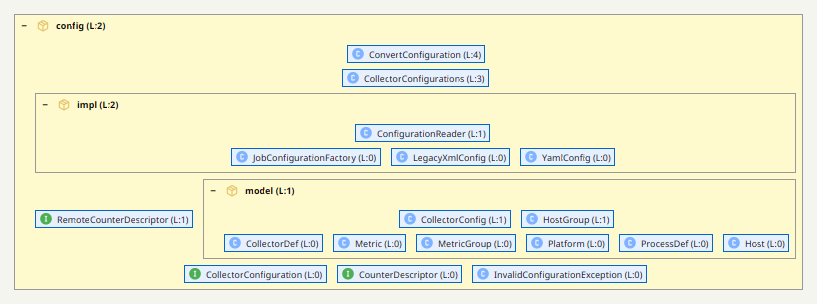
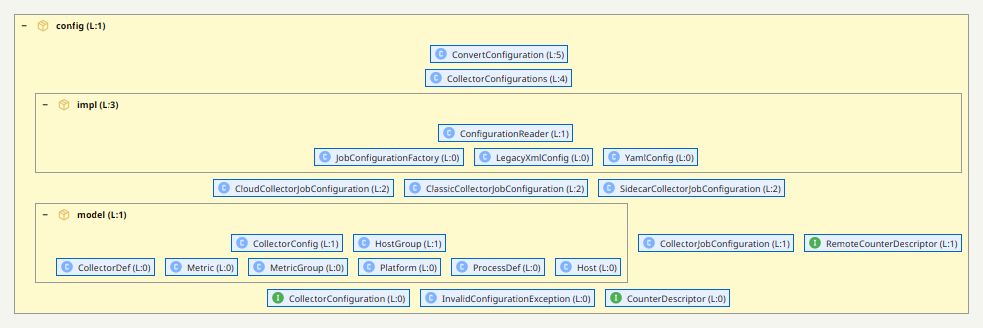
docs: the components of the collector without the cycle

Changed region(s): [[0.0, 0.0296, 1.0, 0.977]]

diff --git a/docs/architecture/collector-components.de.md b/docs/architecture/collector-components.de.md
@@ -9,7 +9,7 @@ gibt es [ein eigenes Dokument](workbench-components.de.md).
 
 Die Bilder stammen aus [S202](https://github.com/Weigend/S202) 1.4.0, das die Abhängigkeiten aus
 dem Bytecode liest. Geladen sind die JARs aller Module des Collectors zusammen. Stand:
-7.5.0-SNAPSHOT, Commit `a7c64da`, 24.11.2026.
+7.6.0-SNAPSHOT, Commit `9277c83`, 24.11.2026.
 
 - [So sind die Bilder zu lesen](#so-sind-die-bilder-zu-lesen)
 - [Module und Verträge](#module-und-verträge)
@@ -34,8 +34,7 @@ dem Bytecode liest. Geladen sind die JARs aller Module des Collectors zusammen. 
 | blauer Kasten mit grünem **I** | ein Interface |
 | **L:n** | die Schicht innerhalb des umgebenden Pakets, 0 ist unten |
 
-Eine Schicht benutzt nur, was unter ihr liegt. Die Ausnahme steht unter
-[Was S202 meldet](#was-s202-meldet). In den Bildern der einzelnen Pakete sind zwei Ebenen
+Eine Schicht benutzt nur, was unter ihr liegt. In den Bildern der einzelnen Pakete sind zwei Ebenen
 aufgeklappt. Ein Klick öffnet ein Bild in voller Größe.
 
 ## Module und Verträge
@@ -81,18 +80,17 @@ Projekts.
 
 ## Level 0: alle Top-Pakete
 
-[![Alle Top-Pakete des Collectors in sechs Schichten](../images/collector-components/level0.png)](../images/collector-components/level0.png)
+[![Alle Top-Pakete des Collectors in fünf Schichten](../images/collector-components/level0.png)](../images/collector-components/level0.png)
 
 Die Pakete unter `io.softwareecg.collector`, über alle Module:
 
 | Schicht | Pakete | Was dort geschieht |
 | --- | --- | --- |
-| 5 | [ui](#ui), `StartCollector`, `CollectorService` | die Anzeige; der Start als Programm und als Windows-Dienst |
-| 4 | [control](#control) | lässt die Jobs laufen |
-| 3 | [source](#source), [repository](#repository) | woher Werte kommen und wohin sie gehen |
-| 2 | [config](#config), [memory](#memory) | die Konfiguration; die zuletzt gelesenen Werte |
-| 1 | [dt](#dt), [connector](#connector) | woraus ein Job besteht; Werte nach außen geben |
-| 0 | [common](#common), [ssh](#ssh), `LicenseChecker` | Grundlagen, die nichts anderes brauchen |
+| 4 | [ui](#ui), `StartCollector`, `CollectorService` | die Anzeige; der Start als Programm und als Windows-Dienst |
+| 3 | [control](#control) | lässt die Jobs laufen |
+| 2 | [source](#source), [repository](#repository) | woher Werte kommen und wohin sie gehen |
+| 1 | [config](#config), [memory](#memory), [connector](#connector) | die Konfiguration und ihre Jobs; die zuletzt gelesenen Werte; Werte nach außen geben |
+| 0 | [dt](#dt), [common](#common), [ssh](#ssh), `LicenseChecker` | Grundlagen, die nichts anderes brauchen |
 
 `source` und `repository` enthalten die Verträge aus `core` und in ihren Unterpaketen die Plugins
 aus den anderen Modulen.
@@ -104,8 +102,8 @@ Aus dem Bytecode aller Module:
 | Paket | Modul | braucht | wird gebraucht von |
 | --- | --- | --- | --- |
 | control | core | source, repository, config, connector, memory, dt, common | ui, den zwei Startklassen |
-| config | core | dt | control, dt, repository, ui und allen Quellen und Repositories außer `rdb.api` |
-| dt | core | config, common | config, control, memory, source, repository, allen Quellen, `csv`, `archive`, `rdb.api` |
+| config | core | dt, common | control, source, repository, ui und allen Quellen und Repositories außer `rdb.api` |
+| dt | core | – | config, control, memory, source, repository, allen Quellen, `csv`, `archive`, `rdb.api` |
 | source (Verträge) | core | config, dt, common | control, allen Quellen |
 | repository (Verträge) | core | config, dt | control, allen Repositories |
 | memory | core | dt | control, calc |
@@ -153,15 +151,14 @@ zu Jobs aus.
 
 | Teil | Inhalt |
 | --- | --- |
-| (direkt) | `CollectorConfigurations` ist der Einstieg: aus einer Datei, einem Text oder einem Modell; `ConvertConfiguration` macht YAML aus XML; `CounterDescriptor` ist, wie eine Quelle ihren Job sieht |
+| (direkt) | `CollectorConfigurations` ist der Einstieg: aus einer Datei, einem Text oder einem Modell; `ConvertConfiguration` macht YAML aus XML; `CounterDescriptor` ist, wie eine Quelle ihren Job sieht; `CollectorJobConfiguration` und ihre drei Arten sind die Jobs: für einzelne Hosts, für eine Cloud-Plattform und neben einem Programm (Sidecar) |
 | `impl` | die zwei Formate und die Fabrik der Jobs |
 | `model` | die Konfiguration ohne Format; die Workbench baut sie direkt |
 
 ## dt
 
 **Kern.** Die Datentypen: woraus ein Job besteht, zum Beispiel Hosts, Pods, Prozesse und Metriken, und der
-Kopf einer Zeitreihe. `dt` und `config` brauchen sich gegenseitig, siehe
-[Was S202 meldet](#was-s202-meldet).
+Kopf einer Zeitreihe.
 
 [![Scope dt](../images/collector-components/dt.png)](../images/collector-components/dt.png)
 
@@ -338,18 +335,16 @@ Bericht vom 24.11.2026 für den oben genannten Stand:
 | --- | ---: |
 | Zugriffe an einer `api` vorbei | 0 |
 | `api`, die Inneres nach außen gibt | 0 |
-| Paketzyklen | 1 |
+| Paketzyklen | 0 |
 | Klassenzyklen, beide innerhalb eines Pakets | 2 |
-| Abhängigkeiten gegen die Schichten | 5 |
+| Abhängigkeiten gegen die Schichten, Teil eines Klassenzyklus | 1 |
 
-- **`config` und `dt` brauchen sich gegenseitig.** Die Jobs in `dt` implementieren `CounterDescriptor` und
-  `RemoteCounterDescriptor` aus `config` und werfen dessen `InvalidConfigurationException`; `config`
-  erzeugt sie. Vier der fünf Abhängigkeiten gegen die Schichten sind dieser Zyklus.
-- **`JobManager` und `CollectorJob`** in `control.jobs` kennen sich gegenseitig, das ist die fünfte.
+- **`JobManager` und `CollectorJob`** in `control.jobs` kennen sich gegenseitig, das ist die Abhängigkeit
+  gegen die Schichten.
 - **`CollectorConfig` und `HostGroup`** in `config.model` kennen sich gegenseitig.
 
 Anders als bei der Workbench wacht kein Test über die Pakete des Collectors. Zwischen den Modulen tut
-es der Compiler; innerhalb von `core` tut es nichts, und dort liegt auch der Paketzyklus.
+es der Compiler; innerhalb von `core` tut es nichts.
 
 ## Die Bilder erneuern
 

diff --git a/docs/architecture/collector-components.md b/docs/architecture/collector-components.md
@@ -9,7 +9,7 @@ code of the Collector or writes a source or a repository for it. For the Workben
 
 The pictures are from [S202](https://github.com/Weigend/S202) 1.4.0, which reads the dependencies
 from the bytecode. Loaded are the JARs of all modules of the Collector together. State:
-7.5.0-SNAPSHOT, commit `a7c64da`, 2026-11-24.
+7.6.0-SNAPSHOT, commit `9277c83`, 2026-11-24.
 
 - [How to read the pictures](#how-to-read-the-pictures)
 - [Modules and contracts](#modules-and-contracts)
@@ -34,8 +34,7 @@ from the bytecode. Loaded are the JARs of all modules of the Collector together.
 | blue box with a green **I** | an interface |
 | **L:n** | the layer inside the surrounding package, 0 is at the bottom |
 
-A layer only uses what is below it. An exception is named in [What S202 reports](#what-s202-reports).
-The pictures of the single packages have two levels expanded. A click opens a picture in full size.
+A layer only uses what is below it. The pictures of the single packages have two levels expanded. A click opens a picture in full size.
 
 ## Modules and contracts
 
@@ -79,18 +78,17 @@ JavaScript engine `calc` needs. It writes what they collect into the repository 
 
 ## Level 0: all top packages
 
-[![All top packages of the Collector in six layers](../images/collector-components/level0.png)](../images/collector-components/level0.png)
+[![All top packages of the Collector in five layers](../images/collector-components/level0.png)](../images/collector-components/level0.png)
 
 The packages below `io.softwareecg.collector`, over all modules:
 
 | Layer | Packages | What happens there |
 | --- | --- | --- |
-| 5 | [ui](#ui), `StartCollector`, `CollectorService` | the display; the start as a program and as a Windows service |
-| 4 | [control](#control) | runs the jobs |
-| 3 | [source](#source), [repository](#repository) | where values come from and where they go |
-| 2 | [config](#config), [memory](#memory) | the configuration; the values read last |
-| 1 | [dt](#dt), [connector](#connector) | what a job is made of; serving values to others |
-| 0 | [common](#common), [ssh](#ssh), `LicenseChecker` | foundations that need nothing else |
+| 4 | [ui](#ui), `StartCollector`, `CollectorService` | the display; the start as a program and as a Windows service |
+| 3 | [control](#control) | runs the jobs |
+| 2 | [source](#source), [repository](#repository) | where values come from and where they go |
+| 1 | [config](#config), [memory](#memory), [connector](#connector) | the configuration and its jobs; the values read last; serving values to others |
+| 0 | [dt](#dt), [common](#common), [ssh](#ssh), `LicenseChecker` | foundations that need nothing else |
 
 `source` and `repository` hold the contracts of `core` and, in their sub-packages, the plugins of
 the other modules.
@@ -102,8 +100,8 @@ From the bytecode of all modules:
 | Package | Module | needs | is needed by |
 | --- | --- | --- | --- |
 | control | core | source, repository, config, connector, memory, dt, common | ui, the two start classes |
-| config | core | dt | control, dt, repository, ui and all sources and repositories but `rdb.api` |
-| dt | core | config, common | config, control, memory, source, repository, all sources, `csv`, `archive`, `rdb.api` |
+| config | core | dt, common | control, source, repository, ui and all sources and repositories but `rdb.api` |
+| dt | core | – | config, control, memory, source, repository, all sources, `csv`, `archive`, `rdb.api` |
 | source (contracts) | core | config, dt, common | control, all sources |
 | repository (contracts) | core | config, dt | control, all repositories |
 | memory | core | dt | control, calc |
@@ -151,14 +149,14 @@ into jobs.
 
 | Part | Content |
 | --- | --- |
-| (direct) | `CollectorConfigurations` is the entry: from a file, a text or a model; `ConvertConfiguration` makes YAML of XML; `CounterDescriptor` is how a source sees its job |
+| (direct) | `CollectorConfigurations` is the entry: from a file, a text or a model; `ConvertConfiguration` makes YAML of XML; `CounterDescriptor` is how a source sees its job; `CollectorJobConfiguration` and its three kinds are the jobs: for single hosts, for a cloud platform and beside a program (sidecar) |
 | `impl` | the two formats and the factory of the jobs |
 | `model` | the configuration without a format; the Workbench builds it directly |
 
 ## dt
 
 **Core.** The data types: what a job is made of, such as hosts, pods, processes and metrics, and the head of
-a time series. `dt` and `config` need each other, see [What S202 reports](#what-s202-reports).
+a time series.
 
 [![Scope dt](../images/collector-components/dt.png)](../images/collector-components/dt.png)
 
@@ -335,18 +333,16 @@ Report of 2026-11-24 for the state named above:
 | --- | ---: |
 | accesses past an `api` | 0 |
 | `api` that gives the inside away | 0 |
-| package cycles | 1 |
+| package cycles | 0 |
 | class cycles, both inside one package | 2 |
-| dependencies against the layers | 5 |
+| dependencies against the layers, part of a class cycle | 1 |
 
-- **`config` and `dt` need each other.** The jobs in `dt` implement `CounterDescriptor` and
-  `RemoteCounterDescriptor` of `config` and throw its `InvalidConfigurationException`; `config`
-  creates them. Four of the five dependencies against the layers are this cycle.
-- **`JobManager` and `CollectorJob`** in `control.jobs` know each other, which is the fifth.
+- **`JobManager` and `CollectorJob`** in `control.jobs` know each other, which is the dependency
+  against the layers.
 - **`CollectorConfig` and `HostGroup`** in `config.model` know each other.
 
 Differently from the Workbench, no test keeps watch over the packages of the Collector. Between the
-modules the compiler does; inside `core` nothing does, which is where the package cycle is.
+modules the compiler does; inside `core` nothing does.
 
 ## Renewing the pictures
 
